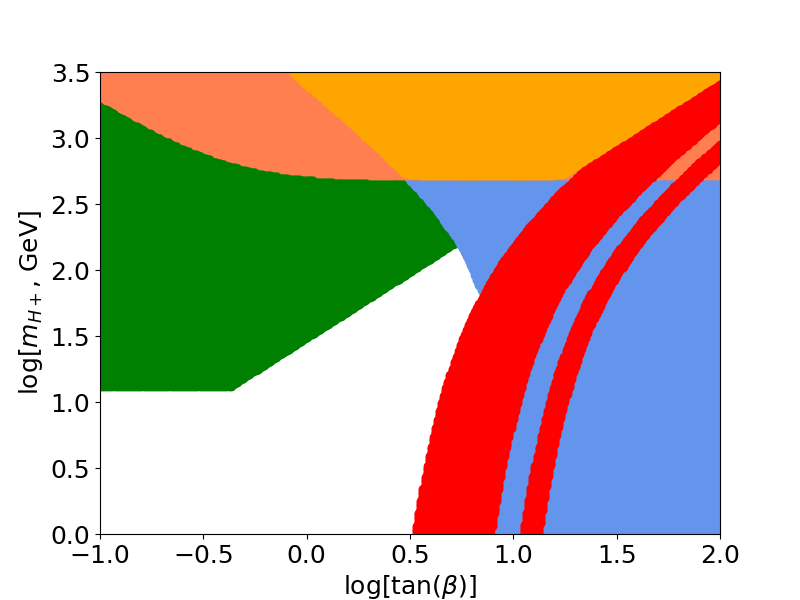
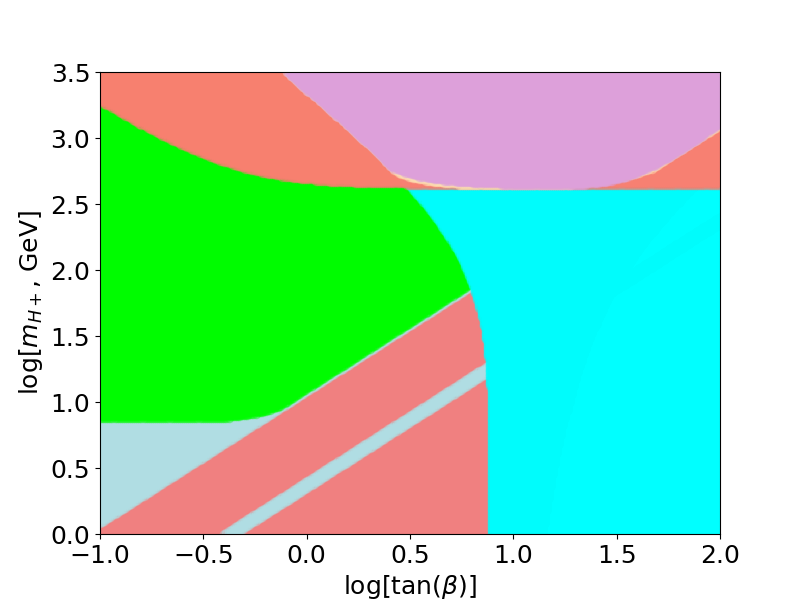
ups

diff --git a/calcs/functions.py b/calcs/functions.py
@@ -358,25 +358,37 @@ def itera_rd(mc,mc_err,mb,mb_err,m_B,m_B_err,m_D,m_D_err,p,p_err,d,d_err,rd_exp,
     '''
         Iterate over mH, tanb space
     '''
+    sigma=1
     exp_branch_up,exp_branch_down = rd_exp+rd_exp_err[0],rd_exp+rd_exp_err[1]
+    av_rd = 0.5*(exp_branch_up+exp_branch_down)
+    sige_rd = sigma*(exp_branch_up-av_rd)
     log_mH_range = np.linspace(0,3.5,350)
     log_tanb_range = np.linspace(-1,2,300)
     mH_range = 10**log_mH_range
     tanb_range = 10**log_tanb_range
     mH_loc = []
     tanb_loc = []
+    chi_rds = []
+    chi_rmin = 1000
     for i in mH_range:
         for j in tanb_range:
             expect_branch = bsemi(mc,mb,m_B,m_D,p,d,i,j)
 #            print expect_branch
             expect_error = error_bsemi(mc,mc_err,mb,mb_err,m_B,m_B_err,m_D,m_D_err,p,p_err,d,d_err,i,j)
             expect_branch_up, expect_branch_down = expect_branch+expect_error[0],expect_branch-expect_error[1]
-            if (rd_exp >= expect_branch and expect_branch_up >= exp_branch_down) or (rd_exp <= expect_branch and expect_branch_down <= exp_branch_up):
+            mid_rd = 0.5*(expect_branch_up+expect_branch_down)
+            sig_rd = sigma*(expect_branch_up-mid_rd)
+            rd_bool = ((av_rd >= mid_rd and mid_rd+sig_rd >= av_rd-sige_rd) or (av_rd <= mid_rd and mid_rd-sig_rd <= av_rd+sige_rd)) 
+            if rd_bool:
                 i_log, j_log = np.log10(i), np.log10(j)
                 mH_loc = np.append(mH_loc,i_log)
                 tanb_loc = np.append(tanb_loc,j_log)
+                chi_rij = chisq_simp([av_rd],[mid_rd],[sige_rd],[sig_rd])
+                chi_rds = np.append(chi_rds,chi_rij)
+                if chi_rij < chi_rmin:
+                    chi_rmin = chi_rij
 
-    return mH_loc, tanb_loc
+    return mH_loc, tanb_loc, chi_rds, chi_rmin
 
 
 def bsgamma(mt,mW,mub,lam_QCD,hi,a,mH,tanb,A0,ac,at,a_s,B0,bc,bt,bs,delt_mc,delt_mt,delt_as,gamc,gamu,Vub,Vts,Vtb,Vcb,alp_EM):
@@ -665,41 +677,41 @@ def itera_firstglobal(bpls_exp,bpls_exp_error,dpls_exp,dpls_exp_error,dspls_exp,
     return mHl_loc, tanbl_loc, mHb_loc, tanbb_loc, mHg_loc, tanbg_loc, mHa_loc, tanba_loc
 
 
-def itera_global(bpls_exp,bpls_exp_error,dpls_exp,dpls_exp_error,dspls_exp,dspls_exp_error,bmix_exp,bmix_exp_error,bmix_sm,bmix_sm_error,kpi_exp,kpi_exp_error,tkpi_exp,tkpi_exp_error,gams_exp,gams_exp_error,gamc_exp,gamc_exp_error,mbpls,mbpls_err,mdpls,mdpls_err,mdspls,mdspls_err,mK,mK_err,mpi,mpi_err,mmB,mmB_err,mtau,mtau_err,mmu,mmu_err,etaB,etaB_err,fBd,fBd_err,Bbd,Bbd_err,fbpls,fbpls_err,fdpls,fdpls_err,fdspls,fdspls_err,fKpi,fKpi_err,delt_kpi,delt_kpi_err,delt_tau,delt_tau_err,tbpls,tbpls_err,tdpls,tdpls_err,tdspls,tdspls_err,mu,mu_err,md,md_err,mc,mc_err,ms,ms_err,mb,mb_err,mt,mt_err,mtb,mtb_err,mW,mW_err,mWb,mWb_err,mub,lam_QCD,QCD_err,hi,a,A0,ac,at,a_s,B0,bc,bt,bs,delt_mc,delt_mt,delt_as,gamu,gamu_err,alp_EM,Vud,Vud_err,Vus,Vus_err,Vub,Vub_err,Vcd,Vcd_err,Vcs,Vcs_err,Vcb,Vcb_err,Vtd,Vtd_err,Vts,Vts_err,Vtb,Vtb_err,tbd,tbd_err,tbs,tbs_err,fBs,fBs_err,mbd,mbd_err,mbs,mbs_err,bs_e,bs_eerr,bd_e,bd_eerr,mB_s,mB_serr,BBs,BBs_err,bmixs_exp,bmixs_exp_error,bmixs_sm,bmixs_sm_error,m_Bmu,m_Bmu_err,rho,rho_err,delt_rd,delt_rd_err,rd_exp,rd_exp_err):
+def itera_global(bpls_exp,bpls_exp_error,dpls_exp,dpls_exp_error,dspls_exp,dspls_exp_error,bmix_exp,bmix_exp_error,bmix_sm,bmix_sm_error,kpi_exp,kpi_exp_error,tkpi_exp,tkpi_exp_error,gams_exp,gams_exp_error,gamc_exp,gamc_exp_error,mbpls,mbpls_err,mdpls,mdpls_err,mdspls,mdspls_err,mK,mK_err,mpi,mpi_err,mmB,mmB_err,mtau,mtau_err,mmu,mmu_err,etaB,etaB_err,fBd,fBd_err,Bbd,Bbd_err,fbpls,fbpls_err,fdpls,fdpls_err,fdspls,fdspls_err,fKpi,fKpi_err,delt_kpi,delt_kpi_err,delt_tau,delt_tau_err,tbpls,tbpls_err,tdpls,tdpls_err,tdspls,tdspls_err,mu,mu_err,md,md_err,mc,mc_err,ms,ms_err,mb,mb_err,mt,mt_err,mtb,mtb_err,mW,mW_err,mWb,mWb_err,mub,lam_QCD,QCD_err,hi,a,A0,ac,at,a_s,B0,bc,bt,bs,delt_mc,delt_mt,delt_as,gamu,gamu_err,alp_EM,Vud,Vud_err,Vus,Vus_err,Vub,Vub_err,Vcd,Vcd_err,Vcs,Vcs_err,Vcb,Vcb_err,Vtd,Vtd_err,Vts,Vts_err,Vtb,Vtb_err,tbd,tbd_err,tbs,tbs_err,fBs,fBs_err,mbd,mbd_err,mbs,mbs_err,bs_e,bs_eerr,bd_e,bd_eerr,mB_s,mB_serr,BBs,BBs_err,bmixs_exp,bmixs_exp_error,bmixs_sm,bmixs_sm_error,m_Bmu,m_Bmu_err,p,p_err,d,d_err,rd_exp,rd_exp_err):
     '''
         Iterate of mH,tanb space for everything
     '''
-     = 1.96
+    sigma = 1
 
     bpls_exp_up,bpls_exp_down = bpls_exp+bpls_exp_error[0],bpls_exp+bpls_exp_error[1]
-    dpls_exp_up,dpls_exp_down = dpls_exp+*dpls_exp_error[0],dpls_exp+dpls_exp_error[1]
-    dspls_exp_up,dspls_exp_down = dspls_exp+*dspls_exp_error[0],dspls_exp+*dspls_exp_error[1]
+    dpls_exp_up,dpls_exp_down = dpls_exp+dpls_exp_error[0],dpls_exp+dpls_exp_error[1]
+    dspls_exp_up,dspls_exp_down = dspls_exp+dspls_exp_error[0],dspls_exp+dspls_exp_error[1]
     av_b,av_d,av_ds = 0.5*(bpls_exp_up+bpls_exp_down),0.5*(dpls_exp_up+dpls_exp_down),0.5*(dspls_exp_up+dspls_exp_down)
     sige_b,sige_d,sige_ds = sigma*(bpls_exp_up-av_b),sigma*(dpls_exp_up-av_d),sigma*(dspls_exp_up-av_ds)
 
-    bmix_exp_up,bmix_exp_down = bmix_exp+*bmix_exp_error[0],bmix_exp+*bmix_exp_error[1]
-    bmixs_exp_up,bmixs_exp_down = bmixs_exp+*bmixs_exp_error[0],bmixs_exp+*bmixs_exp_error[1]
+    bmix_exp_up,bmix_exp_down = bmix_exp+bmix_exp_error[0],bmix_exp+bmix_exp_error[1]
+    bmixs_exp_up,bmixs_exp_down = bmixs_exp+bmixs_exp_error[0],bmixs_exp+bmixs_exp_error[1]
     av_bmix,av_bmixs = 0.5*(bmix_exp_up+bmix_exp_down),0.5*(bmixs_exp_up+bmixs_exp_down)
     sige_bmix,sige_bmixs = sigma*(bmix_exp_up-av_bmix),sigma*(bmixs_exp_up-av_bmixs)
 
-    kpi_exp_up,kpi_exp_down = kpi_exp+*kpi_exp_error[0],kpi_exp+*kpi_exp_error[1]
-    tkpi_exp_up,tkpi_exp_down = tkpi_exp+*tkpi_exp_error[0],tkpi_exp+*tkpi_exp_error[1]
+    kpi_exp_up,kpi_exp_down = kpi_exp+kpi_exp_error[0],kpi_exp+kpi_exp_error[1]
+    tkpi_exp_up,tkpi_exp_down = tkpi_exp+tkpi_exp_error[0],tkpi_exp+tkpi_exp_error[1]
     av_k,av_t = 0.5*(kpi_exp_up+kpi_exp_down),0.5*(tkpi_exp_up+tkpi_exp_down)
     sige_k,sige_t = sigma*(kpi_exp_up-av_k),sigma*(tkpi_exp_up-av_t)
 
     gam_exp = gams_exp/gamc_exp
     xgam = gam_exp*np.sqrt((gamc_exp_error[0]/gamc_exp)**2 + (gams_exp_error[0]/gams_exp)**2)
     ygam = gam_exp*np.sqrt((gamc_exp_error[1]/gamc_exp)**2 + (gams_exp_error[1]/gams_exp)**2)
-    gam_exp_up,gam_exp_down = gam_exp+*xgam,gam_exp-*ygam
+    gam_exp_up,gam_exp_down = gam_exp+xgam,gam_exp-ygam
     av_g = 0.5*(gam_exp_up+gam_exp_down)
     sige_g = sigma*(gam_exp_up-av_g)
 
-    bs_exp_up,bs_exp_down = bs_e+*bs_eerr[0],bs_e+*bs_eerr[1]
-    bd_exp_up,bd_exp_down = bd_e+*bd_eerr[0],bd_e+*bd_eerr[1]
+    bs_exp_up,bs_exp_down = bs_e+bs_eerr[0],bs_e+bs_eerr[1]
+    bd_exp_up,bd_exp_down = bd_e+bd_eerr[0],bd_e+bd_eerr[1]
     av_bs,av_bd = 0.5*(bs_exp_up+bs_exp_down),0.5*(bd_exp_up+bd_exp_down)
     sige_bs,sige_bd = sigma*(bs_exp_up-av_bs),sigma*(bd_exp_up-av_bd)
 
-    rd_exp_up,rd_exp_down = rd_exp+*rd_exp_err[0],rd_exp+*rd_exp_err[1]
+    rd_exp_up,rd_exp_down = rd_exp+rd_exp_err[0],rd_exp+rd_exp_err[1]
     av_rd = 0.5*(rd_exp_up+rd_exp_down)
     sige_rd = sigma*(rd_exp_up-av_rd)
 
@@ -716,50 +728,51 @@ def itera_global(bpls_exp,bpls_exp_error,dpls_exp,dpls_exp_error,dspls_exp,dspls
         for j in tanb_range:
             bpls_the, dpls_the, dspls_the = bthe(mbpls,mtau,Vub,fbpls,tbpls,mu,mb,j,i),bthe(mdpls,mmu,Vcd,fdpls,tdpls,mc,md,j,i),bthe(mdspls,mtau,Vcs,fdspls,tdspls,mc,ms,j,i)
             bpls_err, dpls_err, dspls_err = error_branching(mbpls,mbpls_err,mtau,mtau_err,Vub,Vub_err,fbpls,fbpls_err,tbpls,tbpls_err,mu,mu_err,mb,mb_err,j,i),error_branching(mdpls,mdpls_err,mmu,mmu_err,Vcd,Vcd_err,fdpls,fdpls_err,tdpls,tdpls_err,mc,mc_err,md,md_err,j,i),error_branching(mdspls,mdspls_err,mtau,mtau_err,Vcs,Vcs_err,fdspls,fdspls_err,tdspls,tdspls_err,mc,mc_err,ms,ms_err,j,i)
-            bpls_the_up,bpls_the_down,dpls_the_up,dpls_the_down,dspls_the_up,dspls_the_down=bpls_the+*bpls_err[0],bpls_the-*bpls_err[1],dpls_the+*dpls_err[0],dpls_the-*dpls_err[1],dspls_the+*dspls_err[0],dspls_the-*dspls_err[1]
+            bpls_the_up,bpls_the_down,dpls_the_up,dpls_the_down,dspls_the_up,dspls_the_down=bpls_the+bpls_err[0],bpls_the-bpls_err[1],dpls_the+dpls_err[0],dpls_the-dpls_err[1],dspls_the+dspls_err[0],dspls_the-dspls_err[1]
             mid_b,mid_d,mid_ds=0.5*(bpls_the_up+bpls_the_down),0.5*(dpls_the_up+dpls_the_down),0.5*(dspls_the_up+dspls_the_down)
             sig_b,sig_d,sig_ds=(bpls_the_up-mid_b),(dpls_the_up-mid_d),(dspls_the_up-mid_ds)
-            bpls_bool = ((av_b >= mid_b and mid_b+sig_b >= av_b-sige_b) or (av_b <= mid_b and mid_b-sig_b <= av_b+sige_b)) #DO FOR ALL
-            dpls_bool = ((dpls_exp >= dpls_the and dpls_the_up >= dpls_exp_down) or (dpls_exp <= dpls_the and dpls_the_down <= dpls_exp_up))
-            dspls_bool = ((dspls_exp >= dspls_the and dspls_the_up >= dspls_exp_down) or (dspls_exp <= dspls_the and dspls_the_down <= dspls_exp_up))
+            bpls_bool = ((av_b >= mid_b and mid_b+sig_b >= av_b-sige_b) or (av_b <= mid_b and mid_b-sig_b <= av_b+sige_b)) 
+            dpls_bool = ((av_d >= mid_d and mid_d+sig_d >= av_d-sige_d) or (av_d <= mid_d and mid_d-sig_d <= av_d+sige_d))
+            dspls_bool = ((av_ds >= mid_ds and mid_ds+sig_ds >= av_ds-sige_ds) or (av_ds <= mid_ds and mid_ds-sig_ds <= av_ds+sige_ds))
 
             bmix_the,bmixs_the = mixing(mtb,i*1e3,mWb,j,Vtd,Vtb,etaB,mmB,fBd,Bbd,bmix_sm),mixing(mtb,i*1e3,mWb,j,Vts,Vtb,etaB,mB_s,fBs,BBs,bmixs_sm)
             bmix_err,bmixs_err = error_mixing(mtb,mtb_err,i*1e3,mWb,mWb_err,j,Vtd,Vtd_err,Vtb,Vtb_err,etaB,etaB_err,mmB,mmB_err,fBd,fBd_err,Bbd,Bbd_err,bmix_sm,bmix_sm_error),error_mixing(mtb,mtb_err,i*1e3,mWb,mWb_err,j,Vts,Vts_err,Vtb,Vtb_err,etaB,etaB_err,mB_s,mB_serr,fBs,fBs_err,BBs,BBs_err,bmixs_sm,bmixs_sm_error)
-            bmix_the_up, bmix_the_down = bmix_the+*bmix_err[0],bmix_the-*bmix_err[1]
-            bmixs_the_up, bmixs_the_down = bmixs_the+*bmixs_err[0],bmixs_the-*bmixs_err[1]
+            bmix_the_up, bmix_the_down = bmix_the+bmix_err[0],bmix_the-bmix_err[1]
+            bmixs_the_up, bmixs_the_down = bmixs_the+bmixs_err[0],bmixs_the-bmixs_err[1]
             mid_bm,mid_bms=0.5*(bmix_the_up+bmix_the_down),0.5*(bmixs_the_up+bmixs_the_down)
             sig_bm,sig_bms=(bmix_the_up-mid_bm),(bmixs_the_up-mid_bms)
-            bmix_bool = ((bmix_exp >= bmix_the and bmix_the_up >= bmix_exp_down) or (bmix_exp <= bmix_the and bmix_the_down <= bmix_exp_up)) and ((bmixs_exp >= bmixs_the and bmixs_the_up >= bmixs_exp_down) or (bmixs_exp <= bmixs_the and bmixs_the_down <= bmixs_exp_up))
+            bmix_bool = ((av_bmix >= mid_bm and mid_bm+sig_bm >= av_bmix-sige_bmix) or (av_bmix <= mid_bm and mid_bm-sig_bm <= av_bmix+sige_bmix)) and ((av_bmixs >= mid_bms and mid_bms+sig_bms >= av_bmixs-sige_bmixs) or (av_bmixs <= mid_bms and mid_bms-sig_bms <= av_bmixs+sige_bmixs))
 
             kpi_the,tkpi_the = decay_bsm(mK,mpi,mmu,mtau,Vus,Vud,fKpi,delt_kpi,delt_tau,ms,md,mu,j,i)
             kpi_uperr,kpi_derr,tkpi_uperr,tkpi_derr = error_kpi(mK,mK_err,mpi,mpi_err,mmu,mmu_err,mtau,mtau_err,Vus,Vus_err,Vud,Vud_err,fKpi,fKpi_err,delt_kpi,delt_kpi_err,delt_tau,delt_tau_err,ms,ms_err,md,md_err,mu,mu_err,j,i)
-            kpi_the_up,kpi_the_down,tkpi_the_up,tkpi_the_down = kpi_the+*kpi_uperr,kpi_the-*kpi_derr,tkpi_the+*tkpi_uperr,tkpi_the-*tkpi_derr
+            kpi_the_up,kpi_the_down,tkpi_the_up,tkpi_the_down = kpi_the+kpi_uperr,kpi_the-kpi_derr,tkpi_the+tkpi_uperr,tkpi_the-tkpi_derr
             mid_k,mid_t=0.5*(kpi_the_up+kpi_the_down),0.5*(tkpi_the_up+tkpi_the_down)
             sig_k,sig_t=(kpi_the_up-mid_k),(tkpi_the_up-mid_t)
-            kpi_bool = ((kpi_exp >= kpi_the and kpi_the_up >= kpi_exp_down) or (kpi_exp <= kpi_the and kpi_the_down <= kpi_exp_up))
-            tkpi_bool = ((tkpi_exp >= tkpi_the and tkpi_the_up >= tkpi_exp_down) or (tkpi_exp <= tkpi_the and tkpi_the_down <= tkpi_exp_up))
+            kpi_bool = ((av_k >= mid_k and mid_k+sig_k >= av_k-sige_k) or (av_k <= mid_k and mid_k-sig_k <= av_k+sige_k)) 
+            tkpi_bool = ((av_t >= mid_t and mid_t+sig_t >= av_t-sige_t) or (av_t <= mid_t and mid_t-sig_t <= av_t+sige_t)) 
 
             gam_the = bsgamma(mt,mW,mub,lam_QCD,hi,a,i,j,A0,ac,at,a_s,B0,bc,bt,bs,delt_mc,delt_mt,delt_as,gamc_exp,gamu,Vub,Vts,Vtb,Vcb,alp_EM)
             gam_err = error_gamma(mt,mt_err,mW,mW_err,mub,lam_QCD,QCD_err,hi,a,i,j,A0,ac,at,a_s,B0,bc,bt,bs,delt_mc,delt_mt,delt_as,gamc_exp,gamc_exp_error,gamu,gamu_err,Vub,Vub_err,Vts,Vts_err,Vtb,Vtb_err,Vcb,Vcb_err,alp_EM)
-            gam_the_up,gam_the_down = gam_the+*gam_err[0],gam_the-*gam_err[1]
+            gam_the_up,gam_the_down = gam_the+gam_err[0],gam_the-gam_err[1]
             mid_g=0.5*(gam_the_up+gam_the_down)
             sig_g=(gam_the_up-mid_g)
-            gam_bool = ((gam_exp >= gam_the and gam_the_up >= gam_exp_down) or (gam_exp <= gam_the and gam_the_down <= gam_exp_up))
+            gam_bool = ((av_g >= mid_g and mid_g+sig_g >= av_g-sige_g) or (av_g <= mid_g and mid_g-sig_g <= av_g+sige_g)) 
 
             expect_bd,expect_bs = bmumu(mt,tbd,tbs,fBd,fBs,Vtd,Vts,mmu,mbd,mbs,mW,j,i)
             expect_bd_uperr,expect_bd_downerr,expect_bs_uperr,expect_bs_downerr = error_bmumu(mt,mt_err,tbd,tbd_err,tbs,tbs_err,fBd,fBd_err,fBs,fBs_err,Vtd,Vtd_err,Vts,Vts_err,mmu,mmu_err,mbd,mbd_err,mbs,mbs_err,mW,mW_err,j,i)
-            expect_bd_up, expect_bd_down = expect_bd+*expect_bd_uperr, expect_bd-*expect_bd_downerr
-            expect_bs_up, expect_bs_down = expect_bs+*expect_bs_uperr, expect_bs-*expect_bs_downerr
-            mid_smu,mid_dmu=0.5*(expect_bs_up+expect_bs_down),0.5*(expect_bd_up+expect_bs_down)
-            sig_smu,sig_dmu=(expect_bs_up-mid_smu),(expect_bd_up-mid_dmu)
-            bmu_bool = ((bd_e >= expect_bd and expect_bd_up >= bd_exp_down) or (bd_e <= expect_bd and expect_bd_down <= bd_exp_up)) and ((bs_e >= expect_bs and expect_bs_up >= bs_exp_down) or (bs_e <= expect_bs and expect_bs_down <= bs_exp_up))
+            expect_bd_up, expect_bd_down = expect_bd+expect_bd_uperr, expect_bd-expect_bd_downerr
+            expect_bs_up, expect_bs_down = expect_bs+expect_bs_uperr, expect_bs-expect_bs_downerr
+            mid_smu,mid_dmu=0.5*(expect_bs_up+expect_bs_down),0.5*(expect_bd_up+expect_bd_down)
+            sig_smu,sig_dmu=sigma*(expect_bs_up-mid_smu),sigma*(expect_bd_up-mid_dmu)
+            bs_bool = ((av_bs >= mid_smu and mid_smu+sig_smu >= av_bs-sige_bs) or (av_bs <= mid_smu and mid_smu-sig_smu <= av_bs+sige_bs)) 
+            bd_bool = ((av_bd >= mid_dmu and mid_dmu+sig_dmu >= av_bd-sige_bd) or (av_bd <= mid_dmu and mid_dmu-sig_dmu <= av_bd+sige_bd))
 
-            expect_rd = bsemi(mc,mb,m_Bmu,mdpls,rho,delt_rd,i,j)
-            expect_rd_uperr,expect_rd_downerr = error_bsemi(mc,mc_err,mb,mb_err,m_Bmu,m_Bmu_err,mdpls,mdpls_err,rho,rho_err,delt_rd,delt_rd_err,i,j)
-            expect_rd_up,expect_rd_down=expect_rd+*expect_rd_uperr,expect_rd-*expect_rd_downerr
-            mid_rd = 0.5*(expect_rd_up+expect_rd_up)
-            sig_rd = (expect_rd_up-mid_rd)
-            rd_bool = (rd_exp >= expect_rd and expect_rd_up >= rd_exp_down) or (rd_exp <= expect_rd and expect_rd_down <= rd_exp_up)
+            expect_rd = bsemi(mc,mb,m_Bmu,mdpls,p,d,i,j)
+            expect_rd_err = error_bsemi(mc,mc_err,mb,mb_err,m_Bmu,m_Bmu_err,mdpls,mdpls_err,p,p_err,d,d_err,i,j)
+            expect_rd_up,expect_rd_down=expect_rd+expect_rd_err[0],expect_rd-expect_rd_err[1]
+            mid_rd = 0.5*(expect_rd_up+expect_rd_down)
+            sig_rd = sigma*(expect_rd_up-mid_rd)
+            rd_bool = ((av_rd >= mid_rd and mid_rd+sig_rd >= av_rd-sige_rd) or (av_rd <= mid_rd and mid_rd-sig_rd <= av_rd+sige_rd)) 
 
             if bpls_bool and dpls_bool and dspls_bool and kpi_bool and tkpi_bool:
                 i_log, j_log = np.log10(i), np.log10(j)
@@ -797,7 +810,7 @@ def itera_global(bpls_exp,bpls_exp_error,dpls_exp,dpls_exp_error,dspls_exp,dspls
                 if chi_1ij < chi_1min:
                     chi_1min = chi_1ij
           
-            if bmu_bool:
+            if bs_bool and bd_bool:
                 i_log, j_log = np.log10(i), np.log10(j)
                 mHmu_loc = np.append(mHmu_loc,i_log)
                 tanbmu_loc = np.append(tanbmu_loc,j_log)
@@ -807,7 +820,7 @@ def itera_global(bpls_exp,bpls_exp_error,dpls_exp,dpls_exp_error,dspls_exp,dspls
                     chi_umin = chi_uij
 
             if rd_bool:
-                i_log, j_log = np.log10(i), np.log(j)
+                i_log, j_log = np.log10(i), np.log10(j)
                 mHrd_loc = np.append(mHrd_loc,i_log)
                 tanbrd_loc = np.append(tanbrd_loc,j_log)
                 chi_rij = chisq_simp([av_rd],[mid_rd],[sige_rd],[sig_rd])
@@ -815,7 +828,7 @@ def itera_global(bpls_exp,bpls_exp_error,dpls_exp,dpls_exp_error,dspls_exp,dspls
                 if chi_rij < chi_rmin:
                     chi_rmin = chi_rij
 
-            if bpls_bool and dpls_bool and dspls_bool and bmix_bool and kpi_bool and tkpi_bool and gam_bool and bmu_bool:
+            if bpls_bool and dpls_bool and dspls_bool and bmix_bool and kpi_bool and tkpi_bool and gam_bool and bs_bool and bd_bool:# and rd_bool:
                 i_log, j_log = np.log10(i), np.log10(j)
                 mHa2_loc = np.append(mHa2_loc,i_log)
                 tanba2_loc = np.append(tanba2_loc,j_log)

diff --git a/calcs/branching.py b/calcs/branching.py
@@ -116,7 +116,7 @@ rd_exp, rd_exp_err = [0.34,[0.03,-0.03]] #1909.12524
 #plt.savefig('kpi.png')
 
 # R(D) and ? R(D*)
-hrd1,trd1 = itera_rd(m_c,m_c_err,m_b,m_b_err,m_Brd,m_Brd_err,m_dplus,m_dplus_err,rho,rho_err,delt_rd,delt_rd_err,rd_exp,rd_exp_err)
+hrd,trd,chi_rds,chi_r = itera_rd(m_c,m_c_err,m_b,m_b_err,m_Brd,m_Brd_err,m_dplus,m_dplus_err,rho,rho_err,delt_rd,delt_rd_err,rd_exp,rd_exp_err)
 #plt.figure(figsize=(8,6))
 #plt.scatter(trd,hrd,c='cadetblue',marker=',')
 #plt.ylabel('$\\log[m_{H+}$, GeV]',fontsize=18)
@@ -267,48 +267,48 @@ sm, sm_err = [3.1e-9,[0.7e-9,-0.7e-9]]
 #hl,tl,hb,tb,hg,tg,ha,ta = itera_firstglobal(bplus_exp,bplus_err_exp,dplus_exp,dplus_err_exp,dsplus_exp,dsplus_err_exp,delt_md,delt_md_err,delt_md_expect,delt_md_err_exp,kpi_exp,kpi_exp_err,kpitau_exp,kpitau_exp_err,branchs,branchs_err,branch_c,branchc_err,m_bplus,m_bplus_err,m_dplus,m_dplus_err,m_dsplus,m_dsplus_err,m_K,m_K_err,m_pi,m_pi_err,mBd,mBd_err,m_tau,m_tau_err,m_mu,m_mu_err,etaB,etaB_err,fBd,fBd_err,BBd,BBd_err,f_bplus,f_bplus_err,f_dplus,f_dplus_err,f_dsplus,f_dsplus_err,f_Kpi,f_Kpi_err,delt_kpi,delt_kpi_err,delt_kpitau,delt_kpitau_err,tau_bplus,tau_bplus_err,tau_dplus,tau_dplus_err,tau_dsplus,tau_dsplus_err,m_u,m_u_err,m_d,m_d_err,m_c,m_c_err,m_s,m_s_err,m_b,m_b_err,mt1,mt1_err,mt,mt_err,mW1,mW1_err,mW,mW_err,mub,lambda_QCD,QCD_err,hi,a,A0,ac,at,a_s,B0,bc,bt,b_s,delt_mc,delt_mt,delt_as,gamu,gamu_err,1/137,Vud,Vud_err,Vus,Vus_err,Vub,Vub_err,Vcd,Vcd_err,Vcs,Vcs_err,Vcb,Vcb_err,Vtd,Vtd_err,Vts,Vts_err,Vtb,Vtb_err)
 hl,tl,hb,tb,hg,tg,ha,ta,hmu,tmu,hrd,trd,hl2,tl2,chi_ls,chi_ms,chi_gs,chi_as,chi_mus,chi_rds,chi_2s,chi_l,chi_m,chi_g,chi_a,chi_mu,chi_r,chi_2 = itera_global(bplus_exp,bplus_err_exp,dplus_exp,dplus_err_exp,dsplus_exp,dsplus_err_exp,delt_md,delt_md_err,delt_md_expect,delt_md_err_exp,kpi_exp,kpi_exp_err,kpitau_exp,kpitau_exp_err,branchs,branchs_err,branch_c,branchc_err,m_bplus,m_bplus_err,m_dplus,m_dplus_err,m_dsplus,m_dsplus_err,m_K,m_K_err,m_pi,m_pi_err,mBd,mBd_err,m_tau,m_tau_err,m_mu,m_mu_err,etaB,etaB_err,fBd,fBd_err,BBd,BBd_err,f_bplus,f_bplus_err,f_dplus,f_dplus_err,f_dsplus,f_dsplus_err,f_Kpi,f_Kpi_err,delt_kpi,delt_kpi_err,delt_kpitau,delt_kpitau_err,tau_bplus,tau_bplus_err,tau_dplus,tau_dplus_err,tau_dsplus,tau_dsplus_err,m_u,m_u_err,m_d,m_d_err,m_c,m_c_err,m_s,m_s_err,m_b,m_b_err,mt1,mt1_err,mt,mt_err,mW1,mW1_err,mW,mW_err,mub,lambda_QCD,QCD_err,hi,a,A0,ac,at,a_s,B0,bc,bt,b_s,delt_mc,delt_mt,delt_as,gamu,gamu_err,1/137,Vud,Vud_err,Vus,Vus_err,Vub,Vub_err,Vcd,Vcd_err,Vcs,Vcs_err,Vcb,Vcb_err,Vtd,Vtd_err,Vts,Vts_err,Vtb,Vtb_err,taubd,taubd_err,taubs,taubs_err,fBs,fBs_err,mbd,mbd_err,mbs,mbs_err,bs_exp,bs_exp_err,bd_exp,bd_exp_err,mBs,mBs_err,BBs,BBs_err,delt_ms,delt_ms_err,delt_ms_expect,delt_ms_err_exp,m_Brd,m_Brd_err,rho,rho_err,delt_rd,delt_rd_err,rd_exp,rd_exp_err)
 
-print 10**min(ha)
-X = np.vstack((ta,ha)).T
-matr = cov_mat(X.T)
-print matr
+#print 10**min(ha)
+#X = np.vstack((ta,ha)).T
+#matr = cov_mat(X.T)
+#print matr
+#
+#print 10**min(hl2)
+#Y = np.vstack((tl2,hl2)).T
+#matr2 = cov_mat(Y.T)
+#print matr2
 
-print 10**min(hl2)
-Y = np.vstack((tl2,hl2)).T
-matr2 = cov_mat(Y.T)
-print matr2
-
-plt.figure(figsize=(8,6))
-plt.scatter(tl,hl,c='green')
-plt.scatter(tb,hb,c='cornflowerblue')
-plt.scatter(tg,hg,c='coral')
-plt.scatter(ta,ha,c='orange')
-plt.scatter(tmu,hmu,c='red')
-plt.scatter(tl2,hl2,c='darkorchid')
-plt.scatter(trd,hrd,c='cadetblue')
-plt.scatter(trd1,hrd1,c='cyan')
-plt.axis([-1,2,0,3.5])
-plt.ylabel('$\\log[m_{H+}$, GeV]',fontsize=18)
-plt.xlabel('$\\log[\\tan(\\beta)]$',fontsize=18)
-plt.title('Global Fit',fontsize=18)
-plt.xticks(fontsize=18)
-plt.yticks(fontsize=18)
-plt.annotate('$M\\to l\\nu+\\tau\\to M\\nu$',xy=(0.05,0.5),xycoords='axes fraction',fontsize=18)
-plt.annotate('$b\\to s\\gamma$',xy=(0.20,0.85),xycoords='axes fraction',fontsize=18)
-plt.annotate('Minimal Global',xy=(0.48,0.85),xycoords='axes fraction',fontsize=18)
-plt.annotate('Global $\\to$',xy=(0.72,0.92),xycoords='axes fraction',fontsize=18)
-plt.annotate('$\\Delta M_q$',xy=(0.8,0.35),xycoords='axes fraction',fontsize=18)
-plt.annotate('$B_q \\to \\mu^+\\mu^-$',xy=(0.55,0.24),xycoords='axes fraction',fontsize=18,rotation=75)
-plt.annotate('$\\mathcal{R}(D)$',xy=(0.3,0.2),xycoords='axes fraction',fontsize=18,rotation=34)
+#plt.figure(figsize=(8,6))
+#plt.scatter(tmu,hmu,c='red')
+#plt.scatter(trd,hrd,c='cadetblue')
+#plt.scatter(tl,hl,c='green')
+#plt.scatter(tb,hb,c='cornflowerblue')
+#plt.scatter(tg,hg,c='coral')
+#plt.scatter(ta,ha,c='orange')
+#plt.scatter(tl2,hl2,c='darkorchid')
+#plt.axis([-1,2,0,3.5])
+#plt.ylabel('$\\log[m_{H+}$, GeV]',fontsize=18)
+#plt.xlabel('$\\log[\\tan(\\beta)]$',fontsize=18)
+#plt.title('Global Fit',fontsize=18)
+#plt.xticks(fontsize=18)
+#plt.yticks(fontsize=18)
+#plt.annotate('$M\\to l\\nu+\\tau\\to M\\nu$',xy=(0.05,0.5),xycoords='axes fraction',fontsize=18)
+#plt.annotate('$b\\to s\\gamma$',xy=(0.20,0.85),xycoords='axes fraction',fontsize=18)
+#plt.annotate('Minimal Global',xy=(0.48,0.85),xycoords='axes fraction',fontsize=18)
+#plt.annotate('Global $\\to$',xy=(0.72,0.92),xycoords='axes fraction',fontsize=18)
+#plt.annotate('$\\Delta M_q$',xy=(0.8,0.35),xycoords='axes fraction',fontsize=18)
+#plt.annotate('$B_q \\to \\mu^+\\mu^-$',xy=(0.55,0.24),xycoords='axes fraction',fontsize=18,rotation=75)
+#plt.annotate('$\\mathcal{R}(D)$',xy=(0.3,0.2),xycoords='axes fraction',fontsize=18,rotation=34)
 #plt.show()
 #plt.savefig('global_cl.png')
 
-hchi_leps, tchi_leps = chi_del(chi_l,chi_ls,hl,tl)
-hchi_mix, tchi_mix = chi_del(chi_m,chi_ms,hb,tb)
-hchi_gam, tchi_gam = chi_del(chi_g,chi_gs,hg,tg)
-hchi_mu, tchi_mu = chi_del(chi_mu,chi_mus,hmu,tmu)
-hchi_rd, tchi_rd = chi_del(chi_r,chi_rds,hrd,trd)
-hchi_a, tchi_a = chi_del(chi_a,chi_as,ha,ta)
-hchi_2, tchi_2 = chi_del(chi_2,chi_2s,hl2,tl2)
+m1 = 2.30
+hchi_leps, tchi_leps = chi_del(chi_l,chi_ls,hl,tl,m1)
+hchi_mix, tchi_mix = chi_del(chi_m,chi_ms,hb,tb,m1)
+hchi_gam, tchi_gam = chi_del(chi_g,chi_gs,hg,tg,m1)
+hchi_mu, tchi_mu = chi_del(chi_mu,chi_mus,hmu,tmu,m1)
+hchi_rd, tchi_rd = chi_del(chi_r,chi_rds,hrd,trd,m1)
+hchi_a, tchi_a = chi_del(chi_a,chi_as,ha,ta,m1)
+hchi_2, tchi_2 = chi_del(chi_2,chi_2s,hl2,tl2,m1)
 #hchi_leps, tchi_leps = chi_del2(chi_l,chi_ls)
 #hchi_mix, tchi_mix = chi_del2(chi_m,chi_ms)
 #hchi_gam, tchi_gam = chi_del2(chi_g,chi_gs)
@@ -318,33 +318,28 @@ hchi_2, tchi_2 = chi_del(chi_2,chi_2s,hl2,tl2)
 #hchi_2, tchi_2 = chi_del2(chi_2,chi_2s)
 
 print 10**min(hchi_a)
-print 10**min(hchi_2)
+if len(hchi_2) > 0:
+    print 10**min(hchi_2)
 
 plt.figure(figsize=(8,6))
-plt.scatter(tchi_leps,hchi_leps,c='lime',alpha=0.3)
-plt.scatter(tchi_mix,hchi_mix,c='cyan',alpha=0.3)
-plt.scatter(tchi_gam,hchi_gam,c='salmon',alpha=0.3)
-plt.scatter(tchi_a,hchi_a,c='moccasin',alpha=0.3)
-plt.scatter(tchi_mu,hchi_mu,c='lightcoral',alpha=0.3)
-plt.scatter(tchi_rd,hchi_rd,c='powderblue',alpha=0.3)
-plt.scatter(tchi_2,hchi_2,c='plum',alpha=0.3)
+plt.scatter(tchi_leps,hchi_leps,c='green')#,alpha=0.3)
+plt.scatter(tchi_mix,hchi_mix,c='cornflowerblue')#,alpha=0.3)
+plt.scatter(tchi_gam,hchi_gam,c='coral')#,alpha=0.3)
+plt.scatter(tchi_a,hchi_a,c='orange')#,alpha=0.3)
+plt.scatter(tchi_mu,hchi_mu,c='red')#,alpha=0.3)
+plt.scatter(tchi_rd,hchi_rd,c='cadetblue')#,alpha=0.3)
+plt.scatter(tchi_2,hchi_2,c='darkorchid')#,alpha=0.3)
 plt.axis([-1,2,0,3.5])
 plt.ylabel('$\\log[m_{H+}$, GeV]',fontsize=18)
 plt.xlabel('$\\log[\\tan(\\beta)]$',fontsize=18)
 plt.xticks(fontsize=18)
 plt.yticks(fontsize=18)
+plt.annotate('$M\\to l\\nu+\\tau\\to M\\nu$',xy=(0.05,0.5),xycoords='axes fraction',fontsize=18)
+plt.annotate('$\\Delta M_q$',xy=(0.85,0.35),xycoords='axes fraction',fontsize=18)
+plt.annotate('$\\mathcal{R}(D)$',xy=(0.3,0.2),xycoords='axes fraction',fontsize=18,rotation=34)
+plt.annotate('$b\\to s\\gamma$',xy=(0.20,0.85),xycoords='axes fraction',fontsize=18)
+plt.annotate('Minimal Global',xy=(0.48,0.85),xycoords='axes fraction',fontsize=18)
+plt.annotate('Global $\\to$',xy=(0.72,0.92),xycoords='axes fraction',fontsize=18)
+plt.annotate('$B_q \\to \\mu^+\\mu^-$',xy=(0.55,0.24),xycoords='axes fraction',fontsize=18,rotation=75)
 plt.show()
-#plt.savefig('chisq.png')
-
-
-
-
-
-
-
-
-
-
-
-
-
+#plt.savefig('glob_95cl.png')

diff --git a/calcs/uni.py b/calcs/uni.py
@@ -1,0 +1,16 @@
+from __future__ import division
+import numpy as np
+
+Vud,Vud_err = [0.974390,[0.000014,-0.000058]]
+Vus,Vus_err = [0.224834,[0.000252,-0.000059]]
+Vub,Vub_err = [0.003683,[0.000075,-0.000061]]
+Vcd,Vcd_err = [0.224701,[0.000254,-0.000058]]
+Vcs,Vcs_err = [0.973539,[0.000038,-0.000060]]
+Vcb,Vcb_err = [0.04162,[0.00026,-0.00080]]
+Vtd,Vtd_err = [0.008545,[0.000075,-0.000157]]
+Vts,Vts_err = [0.04090,[0.00026,-0.00076]]
+Vtb,Vtb_err = [0.999127,[0.000032,-0.000012]]
+
+print np.sqrt(1-(Vud**2 + Vus**2 + Vub**2))
+print np.sqrt(abs(1-(Vcd**2 + Vcs**2 + Vcb**2)))
+print 1-(Vud**2 + Vcd**2)

diff --git a/calcs/fitting.py b/calcs/fitting.py
@@ -34,14 +34,14 @@ def chisq_simp(obs,the,sige,sigt):
         chi += val**2
     return chi
 
-def chi_del(chi_min,chis,hs,ts):
+def chi_del(chi_min,chis,hs,ts,parm):
     '''
         computes delta chisq, for several CLs? so 2 sigma so 95.45 just now
     '''
     delt_chis = (chis-chi_min)
     h_min,t_min = [],[]
     for i in range(len(hs)):
-        if delt_chis[i] <= 5.99:
+        if delt_chis[i] <= parm:
             h_min = np.append(h_min,hs[i])
             t_min = np.append(t_min,ts[i])
 
